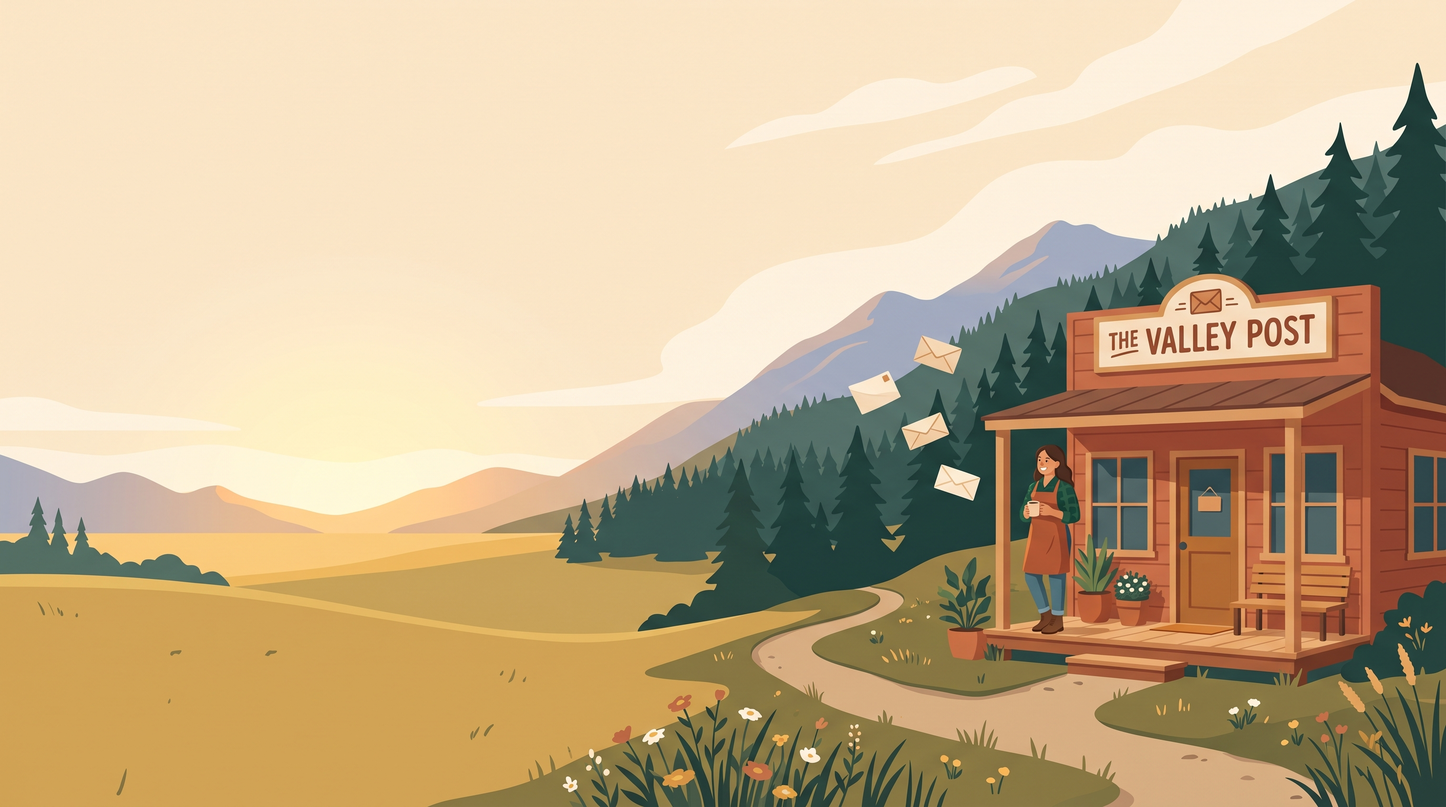
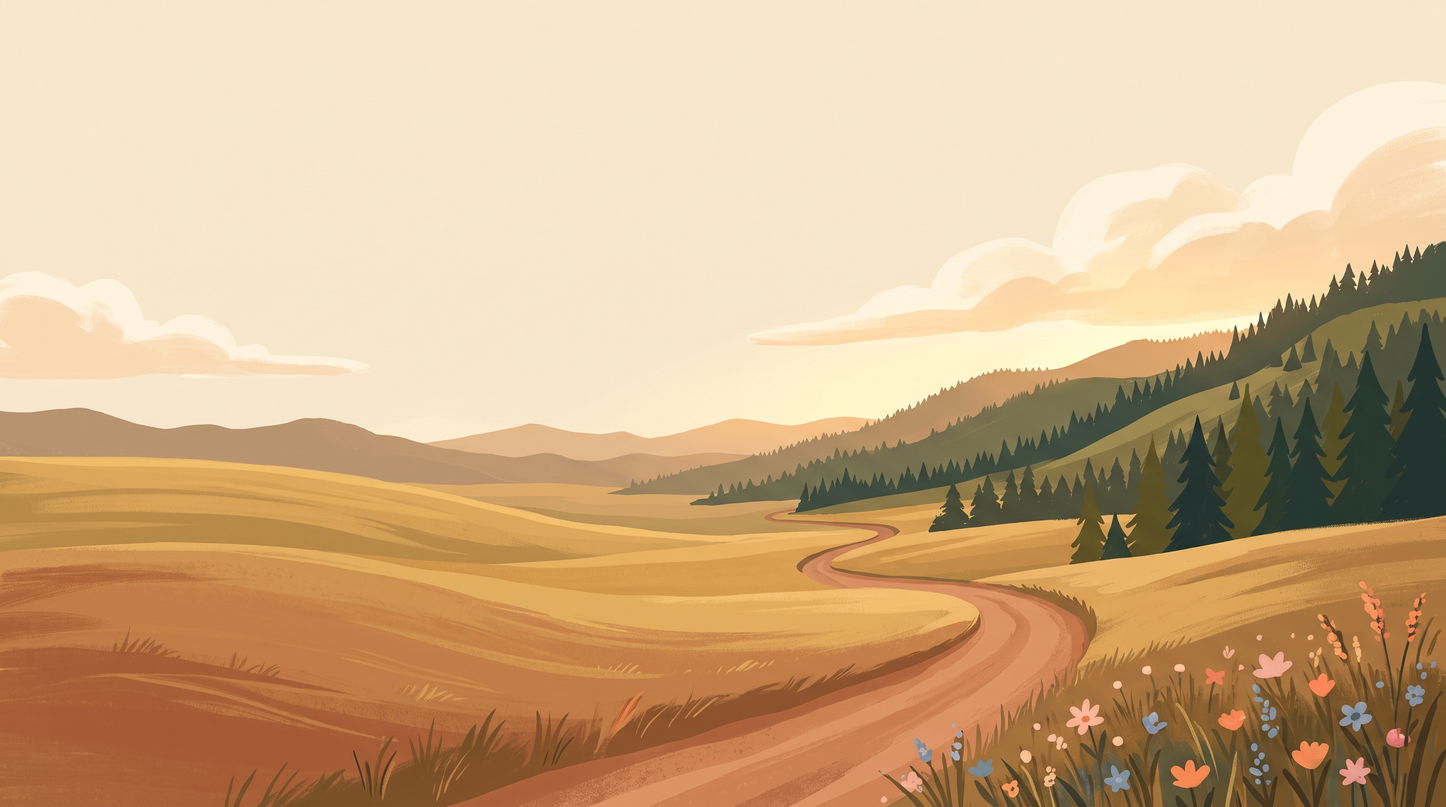
Check off hero and AI assistants images in IMAGES.md

diff --git a/IMAGES.md b/IMAGES.md
@@ -35,7 +35,7 @@ owners rather than a tech crowd.
 
 ## Illustrations
 
-- [ ] `public/images/home-hero.jpg` (**16:9**, e.g. 2560×1440)
+- [x] `public/images/home-hero.jpg` (**16:9**, e.g. 2560×1440)
   - **Prompt:** "Wide 16:9 splash illustration, warm friendly flat style: one continuous, peaceful Southern Oregon valley landscape at golden hour with an asymmetrical composition. A big calm cream sky and gently rolling golden fields fill most of the frame, and layered pine-covered hills with soft mountain silhouettes rise gradually along the right side, where a winding dirt road drifts into the distance and a few soft wildflowers sit in the lower corner. A low horizon and generous open sky keep the scene serene and uncluttered. No people, no animals, no buildings, no signs, no words or lettering anywhere. Earthy cream sky, deep pine green and terracotta accents."
   - **Notes:** renders full-width behind the hero text, which overlays the
     open-sky side, so that area must stay calm. Do NOT phrase that as "left
@@ -58,7 +58,7 @@ owners rather than a tech crowd.
   - **Prompt:** "Flat illustration of several everyday business tools (calculator/accounting book, calendar, envelope, storefront cash register) connected by warm glowing lines into one tidy network, earthy cream, pine green, and terracotta palette"
   - **Notes:** done.
 
-- [ ] `public/images/services/ai-assistants.jpg` (4:3, e.g. 1200×900)
+- [x] `public/images/services/ai-assistants.jpg` (4:3, e.g. 1200×900)
   - **Prompt:** "Warm flat illustration of a cozy small shop interior at night, closed sign on the door and moonlight in the window, with a laptop glowing softly on the counter showing a simple friendly chat conversation where a customer's question is getting a helpful reply, earthy cream, pine green, terracotta palette"
   - **Notes:** no mascot characters or thought bubbles; v1's chat-bubble
     character read strangely.
